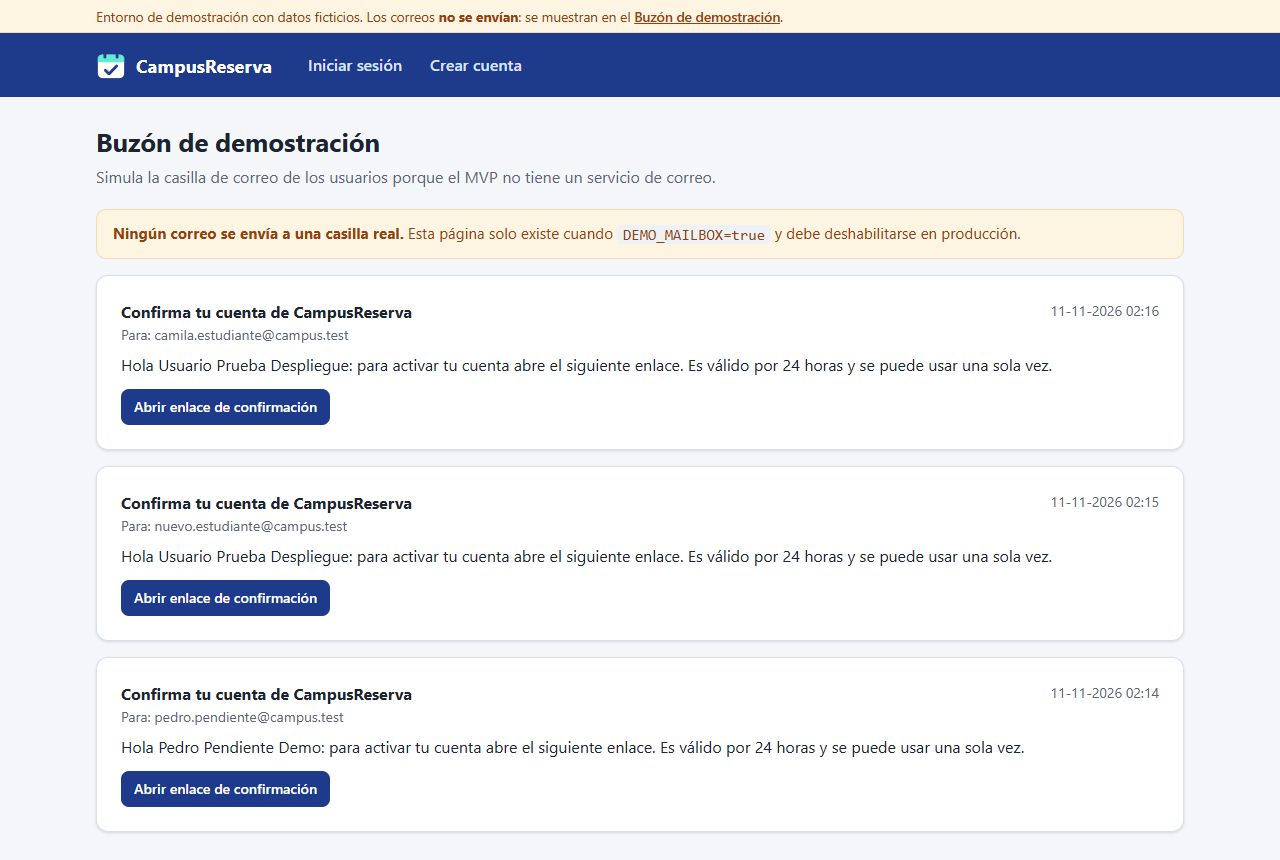
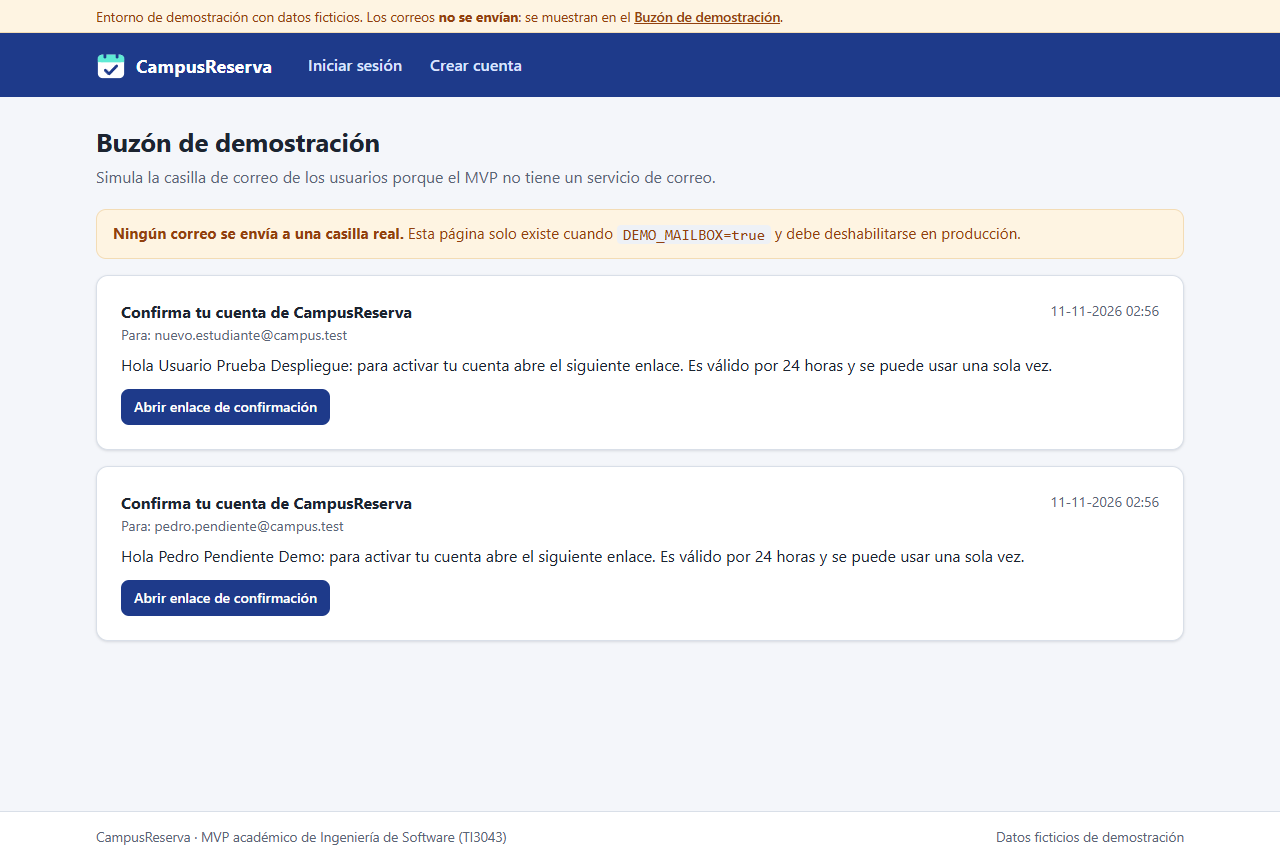
docs: evidencia de las pruebas sobre Render tras el ajuste del inicio de sesión

diff --git a/docs/plan-pruebas.md b/docs/plan-pruebas.md
@@ -188,32 +188,32 @@ Precondición común: base con datos ficticios y reloj en lunes 16-11-2026 10:00
 
 ## 6.1 Pruebas de aceptación sobre el despliegue (Render)
 
-Ejecutadas el 11-11-2026 a las 02:17 (hora de Chile) contra https://campusreserva.onrender.com con
+Ejecutadas el 11-11-2026 a las 02:57 (hora de Chile) contra https://campusreserva.onrender.com (commit bed0265) con
 `npm run pruebas:despliegue`. Evidencia: `docs/evidencias/despliegue/resultado-despliegue.md` y `.json`, y 5 capturas.
 Son pruebas automatizadas de sistema sobre el entorno desplegado; **no** son pruebas con usuarios.
 
 | ID | Verifica | Resultado esperado | Obtenido | Estado |
 |---|---|---|---|---|
-| DEP-01 | El servicio responde por HTTPS | 200 con el inicio de sesión | 200 en 257 ms | Aprobado |
+| DEP-01 | El servicio responde por HTTPS | 200 con el inicio de sesión | 200 en 217 ms | Aprobado |
 | DEP-02 | Redirección de HTTP a HTTPS | 3xx hacia https:// | 301 → https://campusreserva.onrender.com/login | Aprobado |
 | DEP-03 | Cabeceras en producción | HSTS, CSP `default-src 'self'`, nosniff, DENY, no-store, sin X-Powered-By | Todas presentes; HSTS `max-age=31536000; includeSubDomains` | Aprobado |
 | DEP-04 | RF-02 inicio de sesión y cookie | 303 a /disponibilidad; cookie `__Host-cr_sesion` con Secure, HttpOnly, SameSite=Lax, Path=/ y sin Domain | Igual | Aprobado |
 | DEP-05 | RF-02 credenciales inválidas | Mismo mensaje genérico para contraseña errónea y correo inexistente | 401 y 401 con el mismo mensaje | Aprobado |
 | DEP-06 | RF-01 cuenta pendiente | No inicia sesión; "pendiente de confirmación" | 401 | Aprobado |
-| DEP-07 | RF-03 consulta por sede y fecha | 200 con bloques disponibles | 23 bloques (12-11-2026, Sede Maipú) | Aprobado |
-| DEP-08 | RF-04 reserva | Revisión 200; confirmación 303 con código; aparece en Mis reservas | CR-000009 | Aprobado |
+| DEP-07 | RF-03 consulta por sede y fecha | 200 con bloques disponibles | 24 bloques (12-11-2026, Sede Maipú) | Aprobado |
+| DEP-08 | RF-04 reserva | Revisión 200; confirmación 303 con código; aparece en Mis reservas | CR-000007 | Aprobado |
 | DEP-09 | RF-04 bloque ocupado | 409 "acaba de ser reservado" | 409 | Aprobado |
 | DEP-10 | RF-04 / ADR-001 concurrencia | 10 solicitudes simultáneas de 2 usuarios: 1 confirmada y 9 con 409 | 1 y 9 | Aprobado |
 | DEP-11 | RF-05 reservas ajenas | 404 al ver y al cancelar; sin cambios | 404 y 404 | Aprobado |
-| DEP-12 | RF-05 cancelación | Confirmación previa; 303 a Mis reservas; queda en el historial | CR-000009 cancelada | Aprobado |
+| DEP-12 | RF-05 cancelación | Confirmación previa; 303 a Mis reservas; queda en el historial | CR-000007 cancelada | Aprobado |
 | DEP-13 | OWASP A01 CSRF | Formulario sin token: 403 | 403 | Aprobado |
 | DEP-14 | RF-06 / OWASP A01 roles | Estudiante en /admin/espacios: 403 | 403 | Aprobado |
-| DEP-15 | RF-06 espacios | Capacidad 0 rechazada (422); espacio válido registrado y listado | 422; "Sala Prueba Despliegue 0216" registrado | Aprobado |
-| DEP-16 | RF-01 registro y confirmación | Correo del listado registrado; enlace del buzón con la URL pública; activación; inicio de sesión | `camila.estudiante@campus.test` activada | Aprobado |
+| DEP-15 | RF-06 espacios | Capacidad 0 rechazada (422); espacio válido registrado y listado | 422; "Sala Prueba Despliegue 0256" registrado | Aprobado |
+| DEP-16 | RF-01 registro y confirmación | Correo del listado registrado; enlace del buzón con la URL pública; activación; inicio de sesión | `nuevo.estudiante@campus.test` activada | Aprobado |
 | DEP-17 | Cierre de sesión | 303; luego Mis reservas redirige al login | Igual | Aprobado |
 
-Resumen: **17/17 aprobadas**, 99 solicitudes HTTP y 0 respuestas 5xx. DEP-07 mostró 23 bloques y no 24 porque
-quedó activa una reserva de una ejecución anterior (ver H-07).
+Resumen: **17/17 aprobadas**, 98 solicitudes HTTP y 0 respuestas 5xx. Esta ejecución final se hizo sobre datos recién
+restablecidos por el despliegue del commit bed0265, que quitó las cuentas de demostración de la página de inicio de sesión.
 
 ## 7. Matriz de trazabilidad RF → criterio de aceptación → prueba
 
@@ -315,14 +315,14 @@ Las solicitudes son secuenciales, salvo las 10 simultáneas de DEP-10 incluidas 
 
 | Operación | n | p50 (ms) | p95 (ms) | Máx. (ms) |
 |---|---|---|---|---|
-| `GET /login` | 27 | 169,9 | 224,2 | 257,4 |
-| `GET /disponibilidad` (consulta) | 24 | 145,8 | 205,2 | 205,2 |
-| `POST /reservas` (confirmación) | 13 | 185,4 | 409,6 | 409,6 |
-| `POST /login` (inicio de sesión) | 12 | 2879,8 | 3074,8 | 3074,8 |
+| `GET /login` | 27 | 204,7 | 229,8 | 241,5 |
+| `GET /disponibilidad` (consulta) | 24 | 145,9 | 248,3 | 250,9 |
+| `POST /reservas` (confirmación) | 13 | 170,8 | 511,2 | 511,2 |
+| `POST /login` (inicio de sesión) | 12 | 2786,1 | 5427,4 | 5427,4 |
 
 La consulta y la confirmación de reserva quedan bajo los umbrales de RNF-08 (500 ms y 800 ms), aunque con otra
-carga que la del umbral. El inicio de sesión tarda ≈ 3 s porque el plan gratuito entrega una fracción de CPU y
-scrypt es costoso a propósito (H-08). Detalle: `docs/evidencias/despliegue/resultado-despliegue.md`.
+carga que la del umbral. El inicio de sesión tarda ≈ 3 s en la mediana (p95 5,4 s) porque el plan gratuito entrega una
+fracción de CPU y scrypt es costoso a propósito (H-08). Detalle: `docs/evidencias/despliegue/resultado-despliegue.md`.
 
 ## 9. Defectos y hallazgos registrados durante las pruebas
 
@@ -334,7 +334,7 @@ scrypt es costoso a propósito (H-08). Detalle: `docs/evidencias/despliegue/resu
 | H-04 | Ramas de error interno sin cubrir | Brecha de cobertura | Requieren simular fallas internas | La configuración de producción quedó cubierta por CP-U-30 y por las pruebas sobre el despliegue; el resto se registra como mejora | Abierto |
 | H-05 | La regla de contraseña implementada (12 caracteres) no coincidía con la HU-01 de la Sumativa 2 (15 a 128 caracteres y rechazo de comunes) | Inconsistencia de requisitos | Se tomó como base un borrador anterior del informe | Se alineó el código con la HU-01, se agregó CP-U-27 y se regeneraron las capturas | Cerrado |
 | H-06 | Render no podía instalar las dependencias desde `package-lock.json` | Problema de despliegue | El archivo registra el espejo de paquetes del equipo de desarrollo, al que Render no tiene acceso | Render instala desde el registro público de npm las mismas versiones exactas fijadas en `package.json` (`render.yaml`) | Cerrado |
-| H-07 | En la primera ejecución sobre el despliegue quedó activa una reserva de prueba | Defecto del script de pruebas | La reserva ganada en DEP-10 se cancelaba después de cerrar la sesión | La limpieza se movió antes del cierre de sesión y se repitió la ejecución completa (17/17); la reserva restante desaparece al reiniciarse el servicio | Cerrado |
+| H-07 | En la primera ejecución sobre el despliegue quedó activa una reserva de prueba | Defecto del script de pruebas | La reserva ganada en DEP-10 se cancelaba después de cerrar la sesión | La limpieza se movió antes del cierre de sesión y se repitió la ejecución completa (17/17); la reserva restante desapareció con el siguiente despliegue | Cerrado |
 | H-08 | Inicio de sesión de ≈ 3 s en el despliegue | Observación de rendimiento | El plan gratuito entrega una fracción de CPU y scrypt (N=2^17) es costoso a propósito | Aceptado para la demostración; en producción, instancia con CPU dedicada | Aceptado |
 
 No se detectaron defectos funcionales en el código de la aplicación durante la ejecución final.

diff --git a/docs/evidencias/despliegue/resultado-despliegue.md b/docs/evidencias/despliegue/resultado-despliegue.md
@@ -1,53 +1,53 @@
 # Pruebas sobre el despliegue en Render
 
 - URL: https://campusreserva.onrender.com
-- Fecha de ejecución: 2026-11-11T05:17:13.606Z (UTC)
+- Fecha de ejecución: 2026-11-11T05:57:24.430Z (UTC)
 - Cliente: equipo de desarrollo en Chile, Node.js v24.21.0
 - Comando: `node scripts/pruebas-despliegue.js https://campusreserva.onrender.com`
 - Tipo: pruebas automatizadas de sistema sobre el entorno desplegado (no son pruebas con usuarios).
 
-**Resultado:** 17/17 aprobadas; 99 solicitudes HTTP; 0 respuestas 5xx.
+**Resultado:** 17/17 aprobadas; 98 solicitudes HTTP; 0 respuestas 5xx.
 
 | ID | Prueba | Resultado | Detalle |
 |---|---|---|---|
-| DEP-01 | El servicio responde por HTTPS (la primera solicitud puede incluir el arranque en frío) | Aprobada | 200 en 257 ms |
+| DEP-01 | El servicio responde por HTTPS (la primera solicitud puede incluir el arranque en frío) | Aprobada | 200 en 217 ms |
 | DEP-02 | Las solicitudes HTTP se redirigen a HTTPS | Aprobada | 301 → https://campusreserva.onrender.com/login |
 | DEP-03 | Cabeceras de seguridad en producción (HSTS, CSP, nosniff, DENY, no-store) | Aprobada | HSTS: max-age=31536000; includeSubDomains |
 | DEP-04 | RF-02 Inicio de sesión de estudiante con cookie segura (__Host-, Secure, HttpOnly, SameSite=Lax) | Aprobada | Max-Age, Path, HttpOnly, Secure, SameSite |
 | DEP-05 | RF-02 Contraseña incorrecta y correo inexistente reciben el mismo mensaje genérico | Aprobada | ambas responden 401 con el mismo mensaje |
 | DEP-06 | RF-01 Una cuenta pendiente de confirmación no puede iniciar sesión | Aprobada | respondió 401 |
-| DEP-07 | RF-03 Consulta de disponibilidad por sede y fecha (2026-11-12) | Aprobada | 23 bloques disponibles |
-| DEP-08 | RF-04 Reserva con revisión previa, confirmación e identificador | Aprobada | código CR-000009 |
+| DEP-07 | RF-03 Consulta de disponibilidad por sede y fecha (2026-11-12) | Aprobada | 24 bloques disponibles |
+| DEP-08 | RF-04 Reserva con revisión previa, confirmación e identificador | Aprobada | código CR-000007 |
 | DEP-09 | RF-04 Un bloque ya reservado se rechaza al confirmar (409) | Aprobada | 409 Conflict |
 | DEP-10 | RF-04 / ADR-001 10 solicitudes simultáneas de 2 usuarios por el mismo bloque confirman exactamente una | Aprobada | 1 confirmada y 9 rechazadas con 409 |
 | DEP-11 | RF-05 Un usuario no puede ver ni cancelar reservas ajenas (404 sin cambios) | Aprobada | 404 en lectura y cancelación |
-| DEP-12 | RF-05 Cancelación con confirmación; la reserva queda en el historial | Aprobada | CR-000009 cancelada |
+| DEP-12 | RF-05 Cancelación con confirmación; la reserva queda en el historial | Aprobada | CR-000007 cancelada |
 | DEP-13 | OWASP A01 Un formulario sin token CSRF se rechaza (403) | Aprobada | 403 Forbidden |
 | DEP-14 | RF-06 / OWASP A01 Un estudiante no accede a la administración (403) | Aprobada | 403 Forbidden |
-| DEP-15 | RF-06 El administrador registra un espacio y se validan los datos | Aprobada | "Sala Prueba Despliegue 0216" registrado; capacidad 0 rechazada con 422 |
-| DEP-16 | RF-01 Registro con listado institucional, enlace en el buzón de demostración y activación | Aprobada | camila.estudiante@campus.test activada; el enlace apunta a https://campusreserva.onrender.com |
+| DEP-15 | RF-06 El administrador registra un espacio y se validan los datos | Aprobada | "Sala Prueba Despliegue 0256" registrado; capacidad 0 rechazada con 422 |
+| DEP-16 | RF-01 Registro con listado institucional, enlace en el buzón de demostración y activación | Aprobada | nuevo.estudiante@campus.test activada; el enlace apunta a https://campusreserva.onrender.com |
 | DEP-17 | Cierre de sesión: la sesión se destruye en el servidor | Aprobada | Mis reservas redirige al inicio de sesión |
 
 ## Tiempos de respuesta (ms, medidos desde el cliente; incluyen la red)
 
 | Operación | n | p50 | p95 | Máx. |
 |---|---|---|---|---|
-| `GET /login` | 27 | 169.9 | 224.2 | 257.4 |
-| `GET /disponibilidad` | 24 | 145.8 | 205.2 | 205.2 |
-| `POST /reservas` | 13 | 185.4 | 409.6 | 409.6 |
-| `POST /login` | 12 | 2879.8 | 3074.8 | 3074.8 |
-| `GET /reservas/:id` | 3 | 144 | 205 | 205 |
-| `GET /mis-reservas` | 3 | 164.7 | 193.8 | 193.8 |
-| `POST /reservas/:id/cancelar` | 3 | 162.7 | 204.5 | 204.5 |
-| `GET /admin/espacios` | 3 | 147.9 | 152.5 | 152.5 |
-| `POST /admin/espacios` | 2 | 162.6 | 172.2 | 172.2 |
-| `POST /registro` | 2 | 205.3 | 2867.1 | 2867.1 |
-| `GET /reservas/nueva` | 1 | 170.4 | 170.4 | 170.4 |
-| `GET /reservas/:id/cancelar` | 1 | 144.5 | 144.5 | 144.5 |
-| `GET /registro` | 1 | 196.1 | 196.1 | 196.1 |
-| `GET /demo/buzon` | 1 | 204.5 | 204.5 | 204.5 |
-| `GET /confirmar` | 1 | 204.8 | 204.8 | 204.8 |
-| `POST /confirmar` | 1 | 205.7 | 205.7 | 205.7 |
-| `POST /logout` | 1 | 204.7 | 204.7 | 204.7 |
+| `GET /login` | 27 | 204.7 | 229.8 | 241.5 |
+| `GET /disponibilidad` | 24 | 145.9 | 248.3 | 250.9 |
+| `POST /reservas` | 13 | 170.8 | 511.2 | 511.2 |
+| `POST /login` | 12 | 2786.1 | 5427.4 | 5427.4 |
+| `GET /reservas/:id` | 3 | 155.9 | 204.8 | 204.8 |
+| `GET /mis-reservas` | 3 | 171.2 | 213.2 | 213.2 |
+| `POST /reservas/:id/cancelar` | 3 | 151.3 | 203.5 | 203.5 |
+| `GET /admin/espacios` | 3 | 150.3 | 175.6 | 175.6 |
+| `POST /admin/espacios` | 2 | 204.3 | 264.4 | 264.4 |
+| `GET /reservas/nueva` | 1 | 204.1 | 204.1 | 204.1 |
+| `GET /reservas/:id/cancelar` | 1 | 158.8 | 158.8 | 158.8 |
+| `GET /registro` | 1 | 233.7 | 233.7 | 233.7 |
+| `POST /registro` | 1 | 2662.4 | 2662.4 | 2662.4 |
+| `GET /demo/buzon` | 1 | 173.9 | 173.9 | 173.9 |
+| `GET /confirmar` | 1 | 148.2 | 148.2 | 148.2 |
+| `POST /confirmar` | 1 | 189.6 | 189.6 | 189.6 |
+| `POST /logout` | 1 | 205 | 205 | 205 |
 
 Capturas: [dep-01-login.png](dep-01-login.png), [dep-02-disponibilidad.png](dep-02-disponibilidad.png), [dep-03-mis-reservas.png](dep-03-mis-reservas.png), [dep-04-admin-espacios.png](dep-04-admin-espacios.png), [dep-05-buzon-demo.png](dep-05-buzon-demo.png)

diff --git a/docs/decisiones-y-alcance.md b/docs/decisiones-y-alcance.md
@@ -73,7 +73,7 @@ ejecutada). RNF-08 y RNF-09 provienen del Spike/ADR. RNF-10 y RNF-11 se agregan 
 
 Observación medida sin umbral: 50 inicios de sesión simultáneos tienen p95 = 1,49 s por el costo deliberado de scrypt
 (≈ 230 ms por verificación aislada); compromiso aceptado entre seguridad y rendimiento. En el despliegue gratuito de
-Render un inicio de sesión tarda ≈ 3 s (p95 3,07 s), porque el plan entrega solo una fracción de CPU.
+Render un inicio de sesión tarda ≈ 3 s en la mediana (p95 5,4 s), porque el plan entrega solo una fracción de CPU.
 
 ## 5. Riesgos iniciales
 
